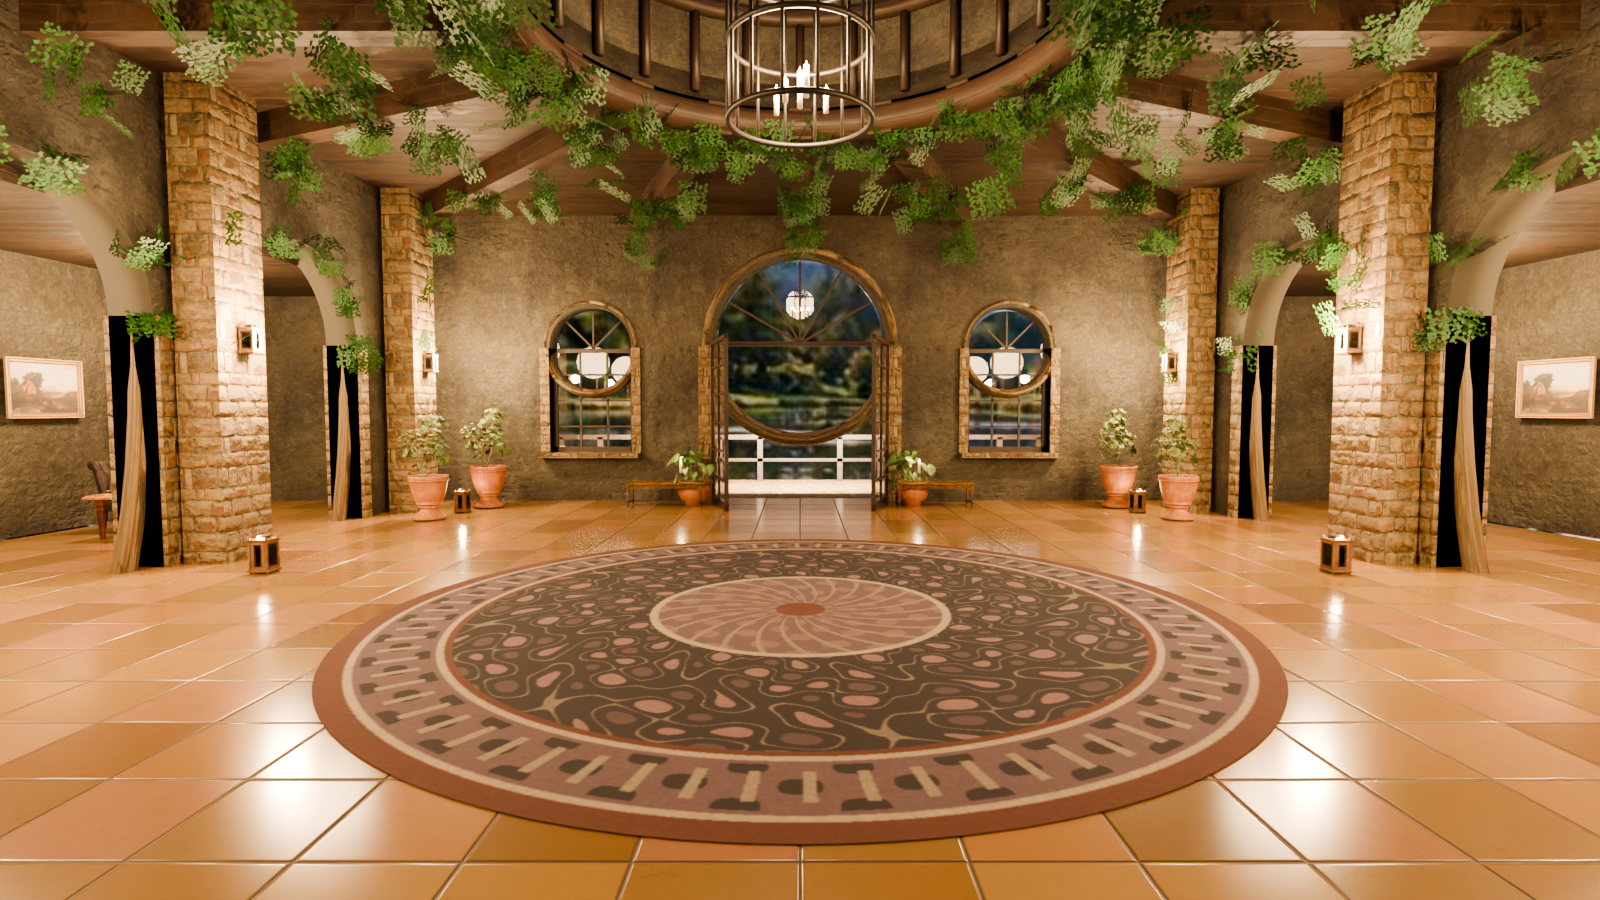
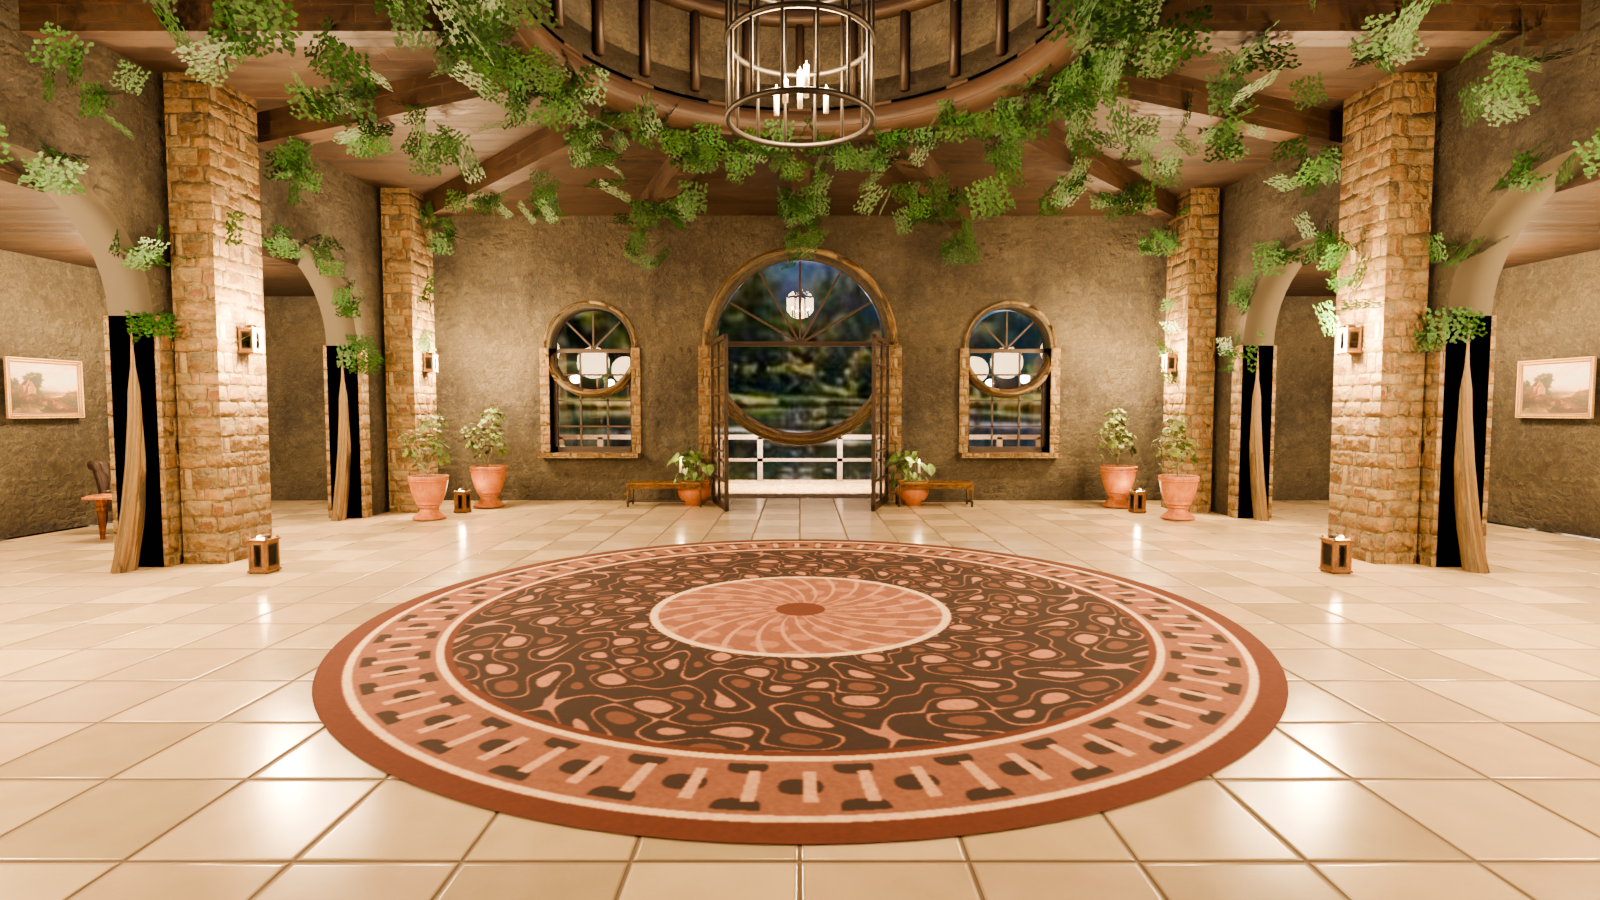
Entrance: lighter walls
Claude-Session: https://claude.ai/code/session_01H5QvABYuopxyApx6FWwYHE

diff --git a/room.html b/room.html
@@ -54,6 +54,7 @@ loader.load(cfg.glb+'?v='+(cfg.version||1),g=>{const room=g.scene;const flames=[
       if(m&&/ivy|rug/.test(m.name||'')){m.transparent=false;m.alphaTest=0.5;m.side=THREE.DoubleSide;m.depthWrite=true;m.needsUpdate=true;}
       if(m&&m.envMapIntensity!==undefined)m.envMapIntensity=0.4;
       if(m&&/stonetile|octotile/.test(m.name||'')){m.color.setRGB(0.6,0.51,0.4);m.userData.floor=true;}
+      if(m&&/plastered_stone_wall|rustic_stone_wall/.test(m.name||'')&&!m.userData.lit){m.color.multiplyScalar(CFG.wallBoost||1);m.userData.lit=true;}
       if(m&&/lanternglow/.test(m.name||'')){m.emissive=new THREE.Color(1,0.66,0.32);m.emissiveIntensity=5;}}});
   scene.add(room);room.updateMatrixWorld(true);
   const pts=[];for(const f of flames){const p=new THREE.Vector3();f.getWorldPosition(p);if(!pts.some(q=>q.distanceTo(p)<0.8))pts.push(p);}

diff --git a/blender/rooms/entrance.py b/blender/rooms/entrance.py
@@ -71,11 +71,11 @@ def half_disc(name, r, cx, cy, cz, mat, seg=32):
     bm.faces.new(vs); return obj_from_bm(name, bm, mat)
 
 def build():
-    wall = pbr('plastered_stone_wall', 'materials', (1.0, 0.93, 0.82), 1.0, 1.2)
-    stone = pbr('rustic_stone_wall', 'materials', (0.95, 0.88, 0.78), 1.0, 1.2)
+    wall = pbr('plastered_stone_wall', 'materials', (1.3, 1.2, 1.04), 1.0, 1.2)
+    stone = pbr('rustic_stone_wall', 'materials', (1.15, 1.06, 0.94), 1.0, 1.2)
     timber = pbr('dark_wooden_planks', 'materials', (0.5, 0.34, 0.22), 0.9)
     ceil_boards = pbr('dark_wooden_planks', 'materials', (0.42, 0.3, 0.2), 0.9)
-    floor = pbr('stonetile', os.path.join('rooms', 'entrance'), (1, 1, 1), 1.0, 0.5)
+    floor = pbr('stonetile', os.path.join('rooms', 'entrance'), (0.84, 0.76, 0.66), 1.0, 0.5)
     frame = pbr('dark_wooden_planks', 'materials', (0.36, 0.23, 0.15), 0.8)
     glass = flat('glass', (0.95, 0.97, 0.98), 0.02, transmission=1.0)
     iron = flat('iron', (0.06, 0.055, 0.05), 0.45, 0.85)
